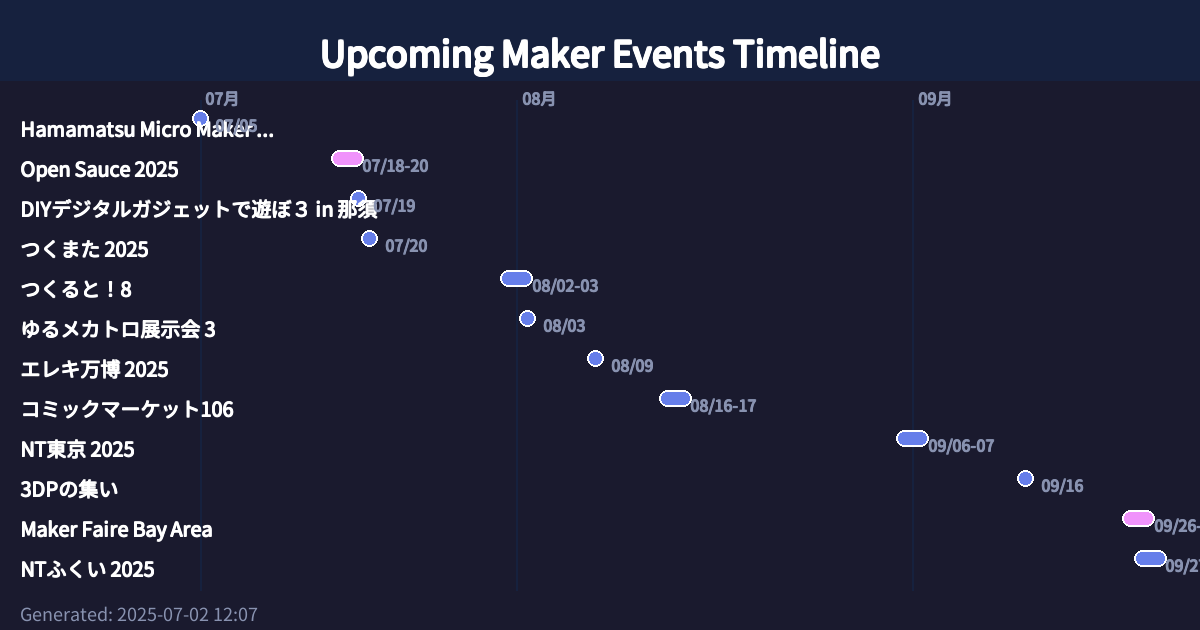
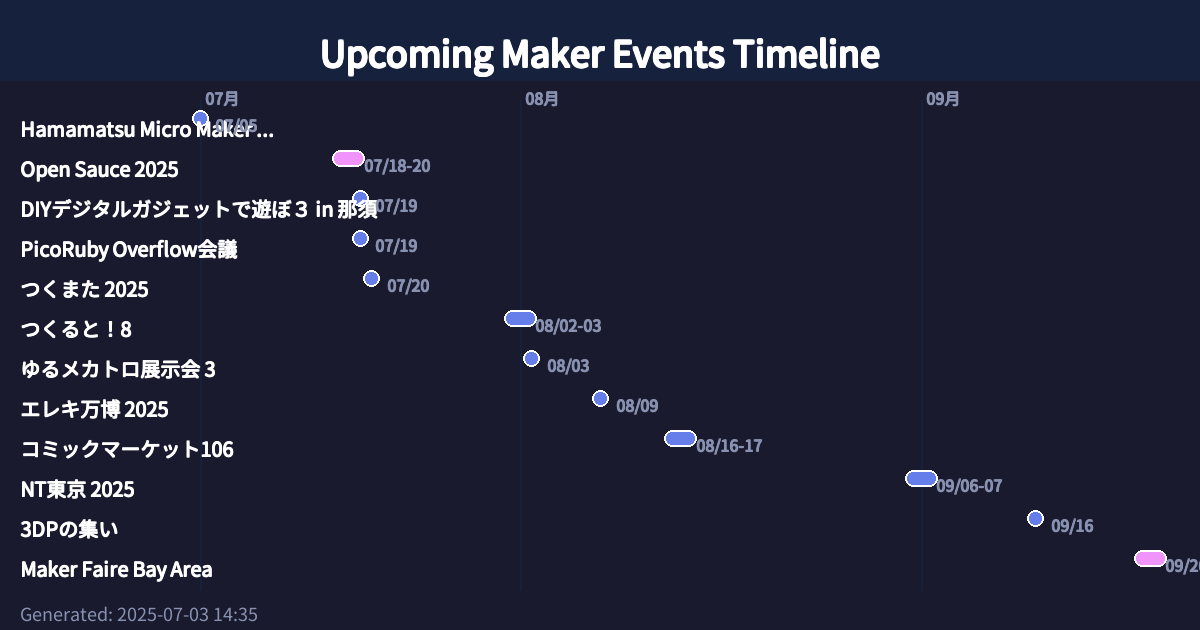
ページ更新

diff --git a/index.html b/index.html
@@ -7,7 +7,7 @@
     
     <!-- OGP Meta Tags for Social Media Sharing -->
     <meta property="og:title" content="Upcoming Maker Events | 今後のメイカーイベント">
-    <meta property="og:description" content="世界中のメイカーイベント情報を一覧で確認。Maker Faire、NT、技術書典など27件のイベント情報を掲載。 | Discover upcoming maker events worldwide including Maker Faires, technical conferences, and maker gatherings.">
+    <meta property="og:description" content="世界中のメイカーイベント情報を一覧で確認。Maker Faire、NT、技術書典など28件のイベント情報を掲載。 | Discover upcoming maker events worldwide including Maker Faires, technical conferences, and maker gatherings.">
     <meta property="og:type" content="website">
     <meta property="og:url" content="https://shinichi-ohki.github.io/maker_event/">
     <meta property="og:image" content="https://shinichi-ohki.github.io/maker_event/ogp_image.png">
@@ -17,11 +17,11 @@
     <!-- Twitter Card -->
     <meta name="twitter:card" content="summary_large_image">
     <meta name="twitter:title" content="Upcoming Maker Events | 今後のメイカーイベント">
-    <meta name="twitter:description" content="世界中のメイカーイベント情報を一覧で確認。27件のイベント情報を掲載。">
+    <meta name="twitter:description" content="世界中のメイカーイベント情報を一覧で確認。28件のイベント情報を掲載。">
     <meta name="twitter:image" content="https://shinichi-ohki.github.io/maker_event/ogp_image.png">
     
     <!-- Standard Meta Tags -->
-    <meta name="description" content="世界中のメイカーイベント情報を一覧で確認。Maker Faire、NT、技術書典など27件のイベント情報を掲載。">
+    <meta name="description" content="世界中のメイカーイベント情報を一覧で確認。Maker Faire、NT、技術書典など28件のイベント情報を掲載。">
     <meta name="keywords" content="Maker Faire, メイカーイベント, 技術イベント, NT, 技術書典, DIY, ハードウェア, プログラミング">
     <meta name="author" content="Maker Events Team">
     <style>
@@ -234,6 +234,25 @@
                         
                         
                         <a href="https://play-dg.connpass.com/event/347286/" class="event-link" target="_blank">詳細を見る</a>
+                        
+                    </div>
+                </div>
+                
+                <div class="event-card">
+                    <div class="event-image">
+                        
+                            <img src="https://naniwarb.github.io/picorubyoverflowkaigi/ogp.png" alt="PicoRuby Overflow会議" style="width: 100%; height: 100%; object-fit: cover;">
+                        
+                    </div>
+                    <div class="event-content">
+                        
+                        <div class="event-date">2025年07月19日</div>
+                        
+                        <h3 class="event-title">PicoRuby Overflow会議</h3>
+                        <p class="event-location">アールスリーインスティテュート, 大阪, 日本</p>
+                        
+                        
+                        <a href="https://naniwarb.github.io/picorubyoverflowkaigi/" class="event-link" target="_blank">詳細を見る</a>
                         
                     </div>
                 </div>
